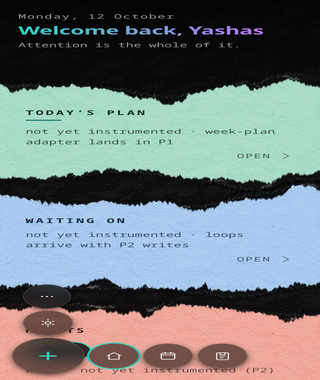
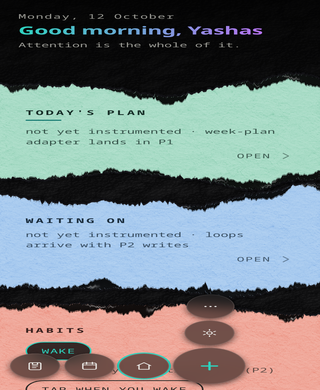
feat(ui): nav back to the right, shorter tail, no scrollbar, no blue flash
FOUR CHANGES, all at the owner's request.

1. THE CLUSTER MIRRORS TO THE BOTTOM-RIGHT. Capture anchors the corner,
   settings and more rise above it, plaza/week/inbox run LEFT from it.
   Every bubble is now placed from the same edge, so the cluster moves as
   one piece: the token picks the corner and the component mirrors with
   it. The test holds that — a stray `left` would strand one bubble
   behind when the cluster next flips.

2. THE TAIL IS SHORTER. main's padding-bottom was 9.5rem, sized so the
   floating cluster could never reach the last sheet's OPEN link. That
   spent most of a phone screen on nothing: 300px of black after the last
   tear. Now 4rem, leaving 176px — the final tear strip plus a margin.

   The trade is real and chosen: scrolled all the way down, the cluster's
   upper bubbles can now overlap the last sheet's OPEN link. That is
   ordinary floating-nav behaviour and costs far less than the empty
   screen did.

3. NO SCROLLBAR ON THE ROUTE SHEET. A scrollbar gutter down the right of
   a small floating glass panel was louder than the list in it. The bar
   is hidden (scrollbar-width, ::-webkit-scrollbar) and the scrolling
   kept. Hiding a bar also hides the signal that there is more below, so
   the sheet was grown to min(68vh, 32rem) first: all seventeen routes
   now fit without scrolling on an ordinary phone, which makes scrolling
   the exception rather than the norm and keeps the hidden bar honest.
[…]

diff --git a/client/src/components/BubbleCluster.test.tsx b/client/src/components/BubbleCluster.test.tsx
@@ -21,16 +21,19 @@ function clusterAt(path: string): HTMLElement {
   return container;
 }
 
-function source(): string {
+function readRepoFile(relative: string): string {
   for (const base of [process.cwd(), join(process.cwd(), "client")]) {
     try {
-      return readFileSync(join(base, "src/components/BubbleCluster.tsx"), "utf8");
+      return readFileSync(join(base, relative), "utf8");
     } catch {
       // try the next base
     }
   }
-  throw new Error("cannot locate BubbleCluster.tsx");
+  throw new Error(`cannot locate ${relative}`);
 }
+
+const source = (): string => readRepoFile("src/components/BubbleCluster.tsx");
+const clusterCss = (): string => readRepoFile("src/components/bubble-cluster.css");
 
 describe("BubbleCluster v2 (01 §3, mockup-ratified)", () => {
   it("renders six bubbles including the ＋ capture FAB", () => {
@@ -43,7 +46,7 @@ describe("BubbleCluster v2 (01 §3, mockup-ratified)", () => {
     expect(container.querySelector('button[aria-label="More"]')).not.toBeNull();
   });
 
-  it("anchors to the BOTTOM-LEFT corner, every bubble hugging the edge", () => {
+  it("anchors to the BOTTOM-RIGHT corner, every bubble hugging the edge", () => {
     const container = clusterAt("/");
     const nav = container.querySelector("[data-nav]") as HTMLElement;
     // The position is one token, so the component must not hard-code a side.
@@ -51,12 +54,13 @@ describe("BubbleCluster v2 (01 §3, mockup-ratified)", () => {
     // Capture sits in the corner itself; everything else is placed off it.
     const fab = container.querySelector('a[aria-label="＋ capture"]') as HTMLElement;
     const style = fab.getAttribute("style") ?? "";
-    expect(style, "capture is the corner anchor").toMatch(/left:\s*0/);
+    expect(style, "capture is the corner anchor").toMatch(/right:\s*0/);
     expect(style, "capture is the corner anchor").toMatch(/bottom:\s*0/);
-    // No bubble may be placed from the right edge — that was the old anchor.
+    // Every bubble is placed from the SAME edge, so the cluster mirrors
+    // as one piece; a stray `left` would strand that bubble behind.
     for (const el of container.querySelectorAll("a, button")) {
       expect((el as HTMLElement).getAttribute("style") ?? "", el.getAttribute("aria-label") ?? "")
-        .not.toMatch(/(^|;)\s*right:/);
+        .not.toMatch(/(^|;)\s*left:/);
     }
   });
 
@@ -104,22 +108,28 @@ describe("BubbleCluster v2 (01 §3, mockup-ratified)", () => {
     );
   });
 
+  it("shows no scrollbar on the route sheet, and still scrolls", () => {
+    const container = clusterAt("/");
+    fireEvent.click(screen.getByRole("button", { name: "More" }));
+    const sheet = container.querySelector("[data-sheet]") as HTMLElement;
+    expect(sheet, "the sheet is the scrolling element").not.toBeNull();
+    expect(sheet.getAttribute("style") ?? "").toContain("overflow-y: auto");
+    const css = clusterCss();
+    expect(css, "Firefox").toMatch(/scrollbar-width:\s*none/);
+    expect(css, "WebKit/Blink").toMatch(/::-webkit-scrollbar/);
+  });
+
   it("kills the tap highlight without killing keyboard focus", () => {
     // The blue rectangle that flashed before navigation is the UA tap
     // highlight. Clearing it must not take the focus ring with it, or
     // keyboard users lose their place entirely.
-    const css = (() => {
-      for (const base of [process.cwd(), join(process.cwd(), "client")]) {
-        try {
-          return readFileSync(join(base, "src/components/bubble-cluster.css"), "utf8");
-        } catch {
-          // try the next base
-        }
-      }
-      throw new Error("cannot locate bubble-cluster.css");
-    })();
-    expect(css).toMatch(/-webkit-tap-highlight-color:\s*transparent/);
-    expect(css, "focus must come back for keyboard").toMatch(/:focus-visible/);
-    expect(css).toMatch(/outline:\s*2px solid var\(--accent-1\)/);
+    // App-wide now, not per component: the blue flash is a UA behaviour
+    // on everything tappable, so theme.css owns it.
+    const theme = readRepoFile("src/theme.css");
+    expect(theme).toMatch(/-webkit-tap-highlight-color:\s*transparent/);
+    expect(theme, "focus must come back for keyboard").toMatch(/:focus-visible\s*\{/);
+    expect(theme).toMatch(/outline:\s*2px solid var\(--accent-1\)/);
+    // A pointer click must leave no ring at all.
+    expect(theme).toMatch(/:focus:not\(:focus-visible\)\s*\{[^}]*outline:\s*none/);
   });
 });

diff --git a/client/src/components/BubbleCluster.tsx b/client/src/components/BubbleCluster.tsx
@@ -3,13 +3,14 @@ import { Link, useLocation } from "react-router-dom";
 import "./bubble-cluster.css";
 
 // The bubble cluster (01 §3): floating glass bubbles anchored to the
-// BOTTOM-LEFT corner by the ＋ capture FAB. Tap More expands the full route
+// BOTTOM-RIGHT corner by the ＋ capture FAB. Tap More expands the full route
 // sheet (two-tap law). Rendered on every route EXCEPT /habits/wake (law 9)
 // — see routes.tsx.
 //
 // Laid out on two axes rather than scattered: a column rising from capture
-// (settings, then more) and a row running right from it (plaza, week,
-// inbox), both aligned to capture's centre lines. The previous version
+// (settings, then more) and a row running LEFT from it (plaza, week,
+// inbox), both aligned to capture's centre lines. Every bubble is placed
+// from the right edge, so the whole cluster mirrors with one token. The previous version
 // placed each bubble at its own hand-tuned offset to read as an "organic
 // cluster"; it read as misaligned.
 //
@@ -174,19 +175,19 @@ export function BubbleCluster() {
   }> = [
     // the column, rising from capture
     { key: "more", label: "More", icon: ICONS.more, size: `${DOT}rem`,
-      pos: { left: ALIGN, bottom: `${FAB + GAP + DOT + GAP}rem` } },
+      pos: { right: ALIGN, bottom: `${FAB + GAP + DOT + GAP}rem` } },
     { key: "settings", label: "Settings", to: "/settings", icon: ICONS.settings, size: `${DOT}rem`,
-      pos: { left: ALIGN, bottom: `${FAB + GAP}rem` } },
-    // the row, running right from capture
+      pos: { right: ALIGN, bottom: `${FAB + GAP}rem` } },
+    // the row, running left from capture
     { key: "plaza", label: "Plaza", to: "/", icon: ICONS.plaza, size: `${DOT}rem`,
-      pos: { left: `${FAB + GAP}rem`, bottom: ALIGN } },
+      pos: { right: `${FAB + GAP}rem`, bottom: ALIGN } },
     { key: "week", label: "Week", to: WEEK_URL, icon: ICONS.week, size: `${DOT}rem`,
-      pos: { left: `${FAB + GAP + DOT + GAP}rem`, bottom: ALIGN } },
+      pos: { right: `${FAB + GAP + DOT + GAP}rem`, bottom: ALIGN } },
     { key: "inbox", label: "Inbox", to: "/inbox", icon: ICONS.inbox, size: `${DOT}rem`,
-      pos: { left: `${FAB + GAP + 2 * (DOT + GAP)}rem`, bottom: ALIGN } },
+      pos: { right: `${FAB + GAP + 2 * (DOT + GAP)}rem`, bottom: ALIGN } },
     // the anchor, in the corner itself
     { key: "capture", label: "＋ capture", to: "/capture", icon: ICONS.plus,
-      size: `${FAB}rem`, pos: { left: 0, bottom: 0 } },
+      size: `${FAB}rem`, pos: { right: 0, bottom: 0 } },
   ];
 
 
@@ -198,12 +199,16 @@ export function BubbleCluster() {
     >
       {sheetOpen ? (
         <div
+          data-sheet=""
           style={{
             position: "absolute",
-            left: 0,
+            right: 0,
             bottom: `${FAB + GAP + 2 * (DOT + GAP)}rem`,
             width: "11rem",
-            maxHeight: "19rem",
+            // Tall enough that the seventeen routes usually need no
+            // scrolling at all; it still scrolls on a short screen, but
+            // the bar itself is hidden in bubble-cluster.css.
+            maxHeight: "min(68vh, 32rem)",
             overflowY: "auto",
             padding: "0.6rem 0.75rem",
             borderRadius: "16px",

diff --git a/client/src/components/bubble-cluster.css b/client/src/components/bubble-cluster.css
@@ -1,27 +1,26 @@
 /* The bubble cluster's non-inline rules.
 
-   Two things cannot be expressed as inline styles, and both are about what
-   happens when the thing is touched:
+   The tap highlight and the focus ring moved to theme.css: the blue flash
+   is a UA behaviour on every tappable thing, not a cluster problem, and
+   killing it in one place beats killing it per component. What is left
+   here is the one rule that genuinely belongs to this component. */
 
-   TAP HIGHLIGHT. Mobile WebKit/Blink paint a translucent blue rectangle
-   over a link the instant it is touched, before navigation runs. On round
-   glass bubbles it flashes as a blue SQUARE behind the circle, which is
-   what it looked like: a blue mark appearing before the action. It is the
-   UA's own affordance and the only way off it is this property.
+/* THE ROUTE SHEET'S SCROLLBAR. Seventeen routes do not fit on a short
+   screen, so the sheet scrolls — but a scrollbar gutter down the right
+   edge of a small floating glass panel is louder than the list itself.
+   The bar is hidden and the scrolling is kept.
 
-   FOCUS. Clearing the tap highlight must not clear keyboard focus with it.
-   `outline: none` alone would leave someone navigating by keyboard with no
-   idea where they are, so the ring is restored on :focus-visible — which
-   fires for keyboard and not for pointer, exactly the distinction wanted. */
-
-[data-nav="bubble-cluster"] a,
-[data-nav="bubble-cluster"] button {
-  -webkit-tap-highlight-color: transparent;
-  outline: none;
+   The tradeoff is real and deliberate: hiding a scrollbar also hides the
+   signal that there is more below. The sheet is sized (min(68vh, 32rem))
+   so the full list usually fits with no scrolling at all, which is what
+   keeps this honest — scrolling is the exception here, not the norm. */
+[data-nav="bubble-cluster"] [data-sheet] {
+  scrollbar-width: none;        /* Firefox */
+  -ms-overflow-style: none;     /* old Edge */
 }
 
-[data-nav="bubble-cluster"] a:focus-visible,
-[data-nav="bubble-cluster"] button:focus-visible {
-  outline: 2px solid var(--accent-1);
-  outline-offset: 3px;
+[data-nav="bubble-cluster"] [data-sheet]::-webkit-scrollbar {
+  width: 0;
+  height: 0;
+  display: none;
 }

diff --git a/client/src/theme.css b/client/src/theme.css
@@ -198,6 +198,39 @@
    scale as well as fine tooth. Amended ceiling: <= 8% per layer, still
    well under what interferes with body text (01 §2 L0). The texture
    dresses the black skin only — glass and paper layers opt out. */
+/* The UA tap-highlight: mobile WebKit/Blink paint a translucent blue
+   rectangle over anything tappable the instant it is touched, before the
+   action runs. It is the browser's own affordance and this property is
+   the only way off it. Killed app-wide — on round bubbles it flashed as a
+   blue SQUARE behind the circle, and it is no better on the sheets.
+
+   The ring that remains is :focus-visible, which fires for keyboard and
+   not for pointer. A pointer-focused element gets nothing; a keyboard one
+   keeps a teal ring, because taking that away too would leave anyone
+   navigating by keyboard with no idea where they are. */
+html {
+  -webkit-tap-highlight-color: transparent;
+}
+
+a,
+button,
+[role="button"],
+input,
+select,
+textarea,
+summary {
+  -webkit-tap-highlight-color: transparent;
+}
+
+:focus:not(:focus-visible) {
+  outline: none;
+}
+
+:focus-visible {
+  outline: 2px solid var(--accent-1);
+  outline-offset: 3px;
+}
+
 body {
   margin: 0;
   min-height: 100dvh;

diff --git a/client/src/routes/PlazaScreen.tsx b/client/src/routes/PlazaScreen.tsx
@@ -95,7 +95,13 @@ export function PlazaScreen() {
         // Sheets run nearly the full width and their tears very nearly
         // touch: the black between them is the skin showing through a
         // series of tears, not a stack of cards with margins.
-        padding: "1.1rem 0 9.5rem",
+        // 9.5rem of black used to sit below the last sheet, sized so the
+        // floating cluster could never cover the final OPEN link. That is
+        // most of a phone screen spent on nothing. 4rem instead: scrolled
+        // all the way down the cluster's upper bubbles can now reach the
+        // last sheet's link, which is ordinary behaviour for a floating
+        // nav and costs far less than the empty screen did.
+        padding: "1.1rem 0 4rem",
         // The phone design is the design (04, mockup-ratified). On a wide
         // window the column caps rather than stretching: a sheet spanning
         // 1280px puts its text far outside the 60-70ch measure (01 §6) and
